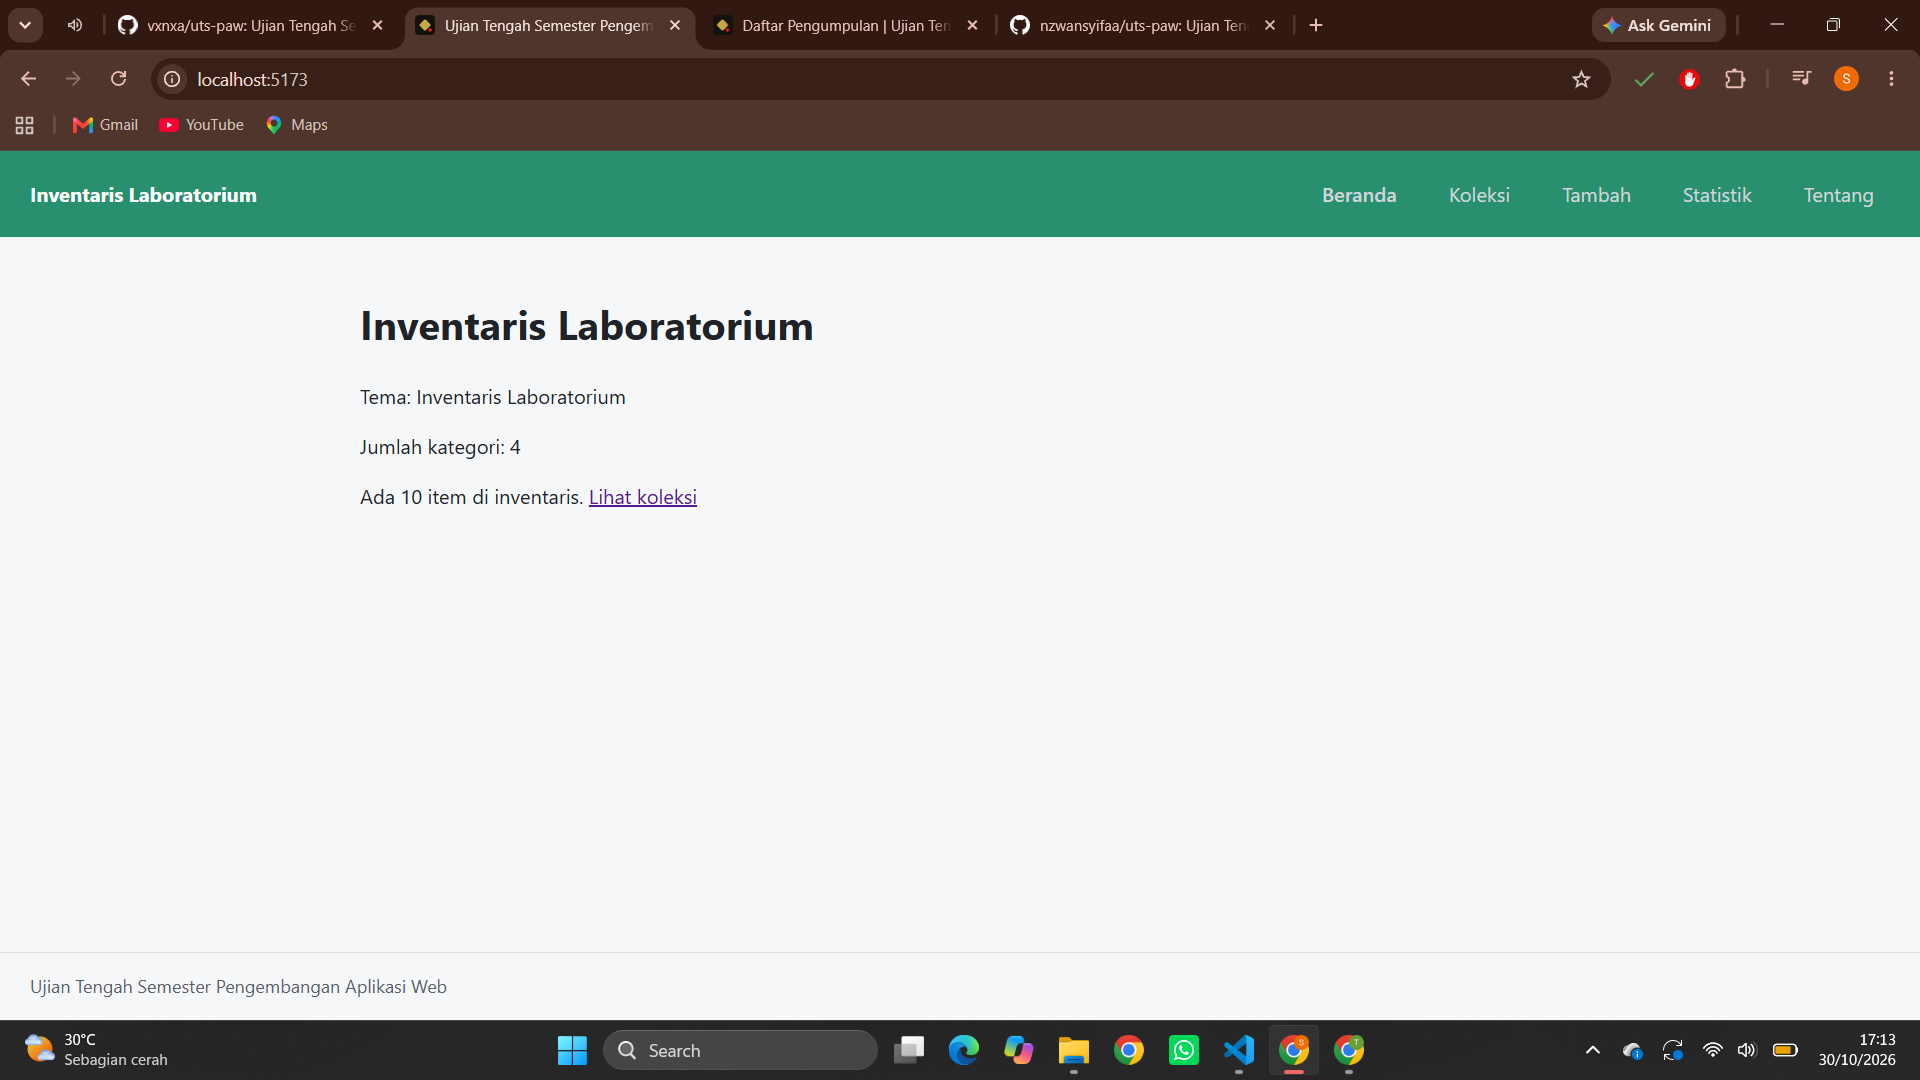
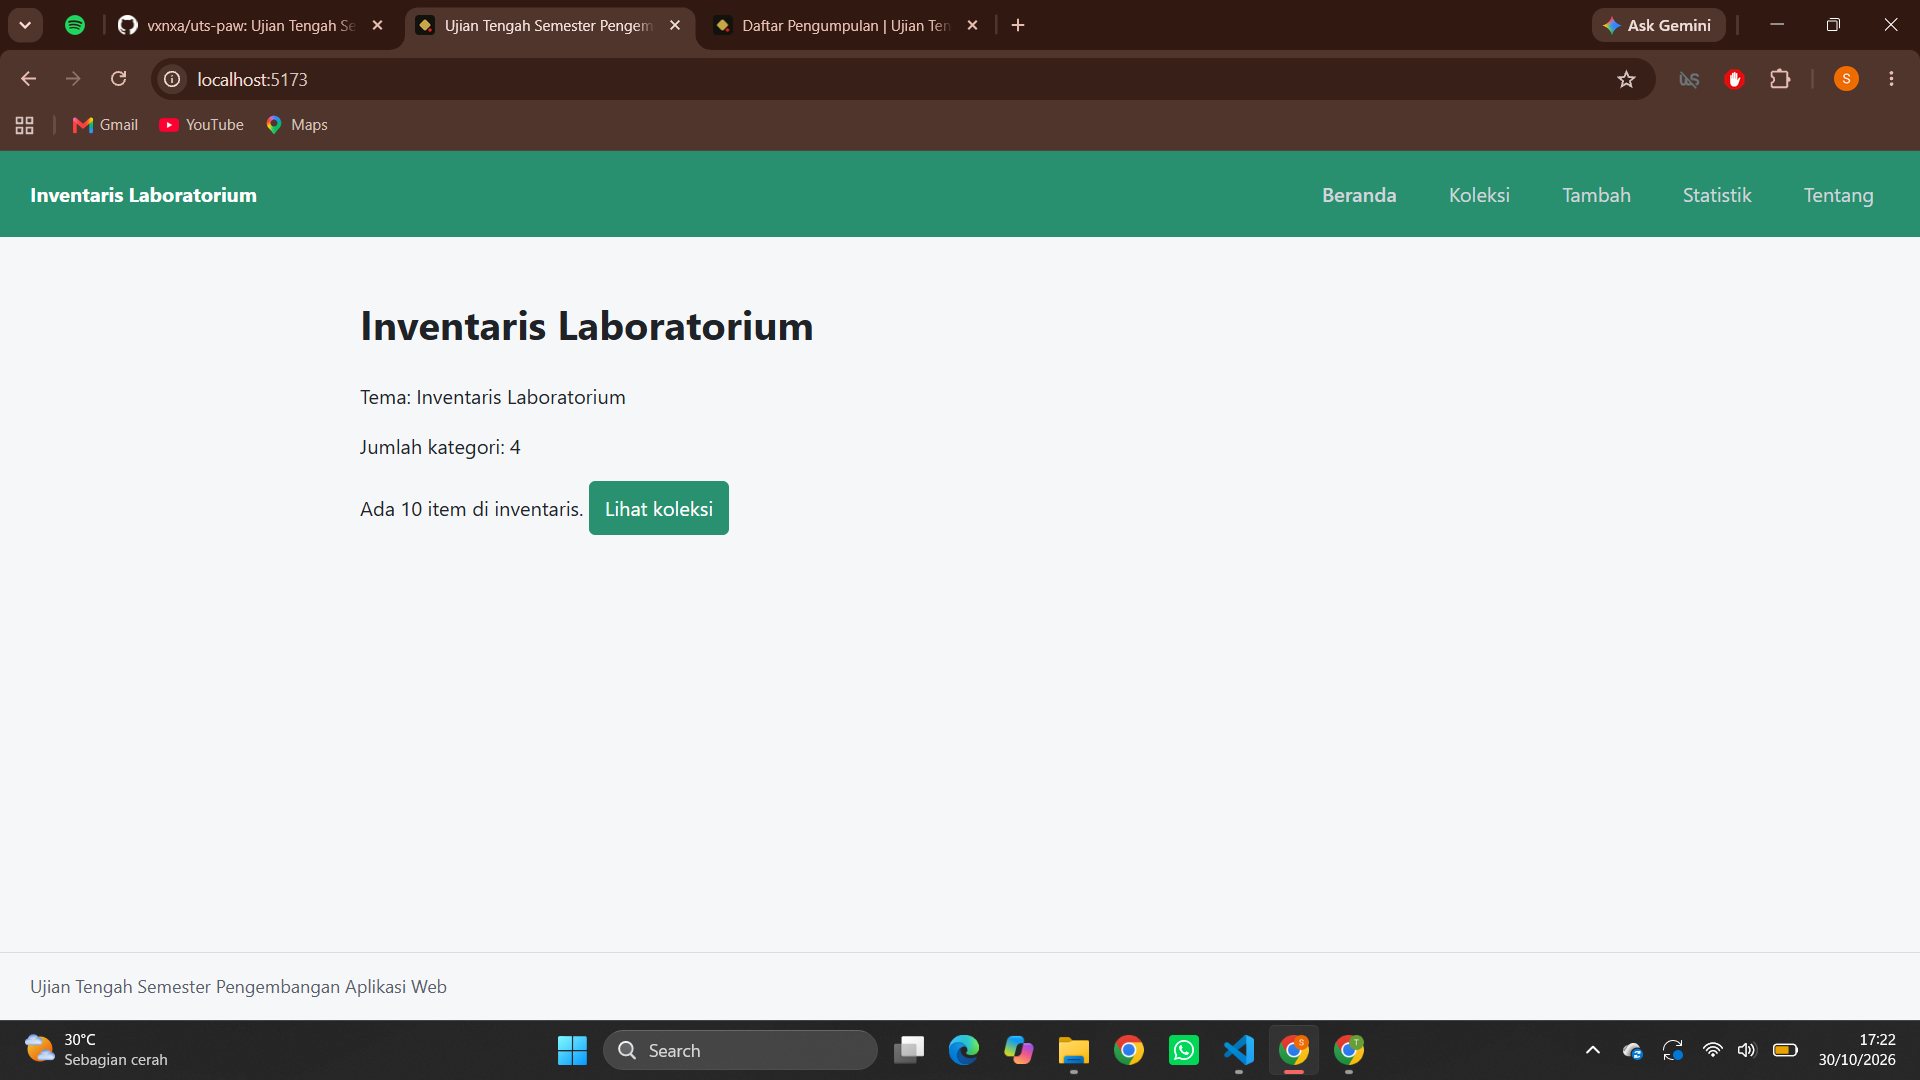
fixed readme and beranda.jsx

diff --git a/app/src/pages/Beranda.jsx b/app/src/pages/Beranda.jsx
@@ -16,7 +16,7 @@ export default function Beranda() {
       ) : (
         <p>
           Ada {items.length} item di inventaris.{' '}
-          <Link to="/koleksi">Lihat koleksi</Link>
+          <Link to="/koleksi" className="tombol-koleksi">Lihat koleksi</Link>
         </p>
       )}
     </section>

diff --git a/app/src/index.css b/app/src/index.css
@@ -55,3 +55,12 @@ main {
 .kembali:hover {
   background-color: #2563eb;
 }
+
+.tombol-koleksi {
+  display: inline-block;
+  text-decoration: none;
+  background: #299170;
+  color: #fff;
+  padding: 0.6rem 0.8rem;
+  border-radius: 5px;
+}
